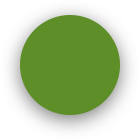
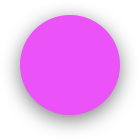
Mac 별 색상/info Window 생성 완료

diff --git a/viewer.html b/viewer.html
@@ -34,6 +34,28 @@
         };
         map = new olleh.maps.Map(document.getElementById('map_div'), mapOpts);
 
+        //info window template
+        var tmpl = '<div style="font-family: dotum, arial, sans-serif;font-size: 18px; font-weight: bold;margin-bottom: 5px;">#{ssid}</div>' +
+                  '<table style="border-spacing: 2px; border: 0px"><tbody><tr>' +
+                  '<tr><td style="color:#767676;padding-right:12px">MAC Address</td>' +
+                  '<td><span>#{mac}</span></td></tr>' +
+                  '<tr><td style="color:#767676;padding-right:12px">LatLng</td>' +
+                  '<td><span>#{latitude}, #{longitude}</span></td></tr>' +
+                  '<tr><td style="color:#767676;padding-right:12px">Update Time</td>' +
+                  '<td><span>#{updatetime}</span></td></tr>' +
+                  '<tr><td style="color:#767676;padding-right:12px">Data Type</td>' +
+                  '<td><span>#{type}</span></td></tr>' +
+                  '</tr></tbody></table>';
+
+        //info window 생성
+        var info = new olleh.maps.overlay.InfoWindow({
+          maxWidth: 400,
+          position: initPosition,
+          content: '',
+          map:map,
+          visible: false
+        });
+
         map.onEvent('file_reload', function (event, payload) {
 
           //Mac 개수 확인 및 Mac 종류별 Icon 셋팅
@@ -68,8 +90,21 @@
           });
           
           
+          
           //payload[1]부터는 ap 정보
           for (i = 1; i < payload.length; i++) {
+
+            var data = {
+              ssid: payload[i].ssid,
+              mac: payload[i].mac,
+              latitude: payload[i].latitude,
+              longitude: payload[i].longitude,
+              updatetime: payload[i].updatetime,
+              type: payload[i].type
+            };
+
+
+
             var marker = new olleh.maps.overlay.Marker({
               position: new olleh.maps.LatLng(payload[i].latitude,payload[i].longitude),
               icon: {
@@ -80,9 +115,20 @@
               },
               map: this
             });
+            marker.data = data;
+
+            //클릭할때 info window visible
+            marker.onEvent('click', function (event, payload) {
+              info.setMap(map)
+              info.setContent(olleh.maps.util.applyTemplate(tmpl, this.data));
+              info.setPosition(this.getPosition());
+              info.setVisible(true);
+              info.setPixelOffset(new olleh.maps.Point(0,-25));
+            },marker);
           };
 
         });
+
       };
       </script>
     </head>
@@ -117,14 +163,9 @@
                 type:line.split(",")[5]
               };
             }
-            //alert(result[27].latitude);
             map.fireEvent(fileReloadEvent,result);
-            //alert(reader.result.split("\n").length);
           };
           
-          //function  () {
-            //document.querySelector('#preview').textContent = reader.result ;
-          //};
         };
       </script>
 
